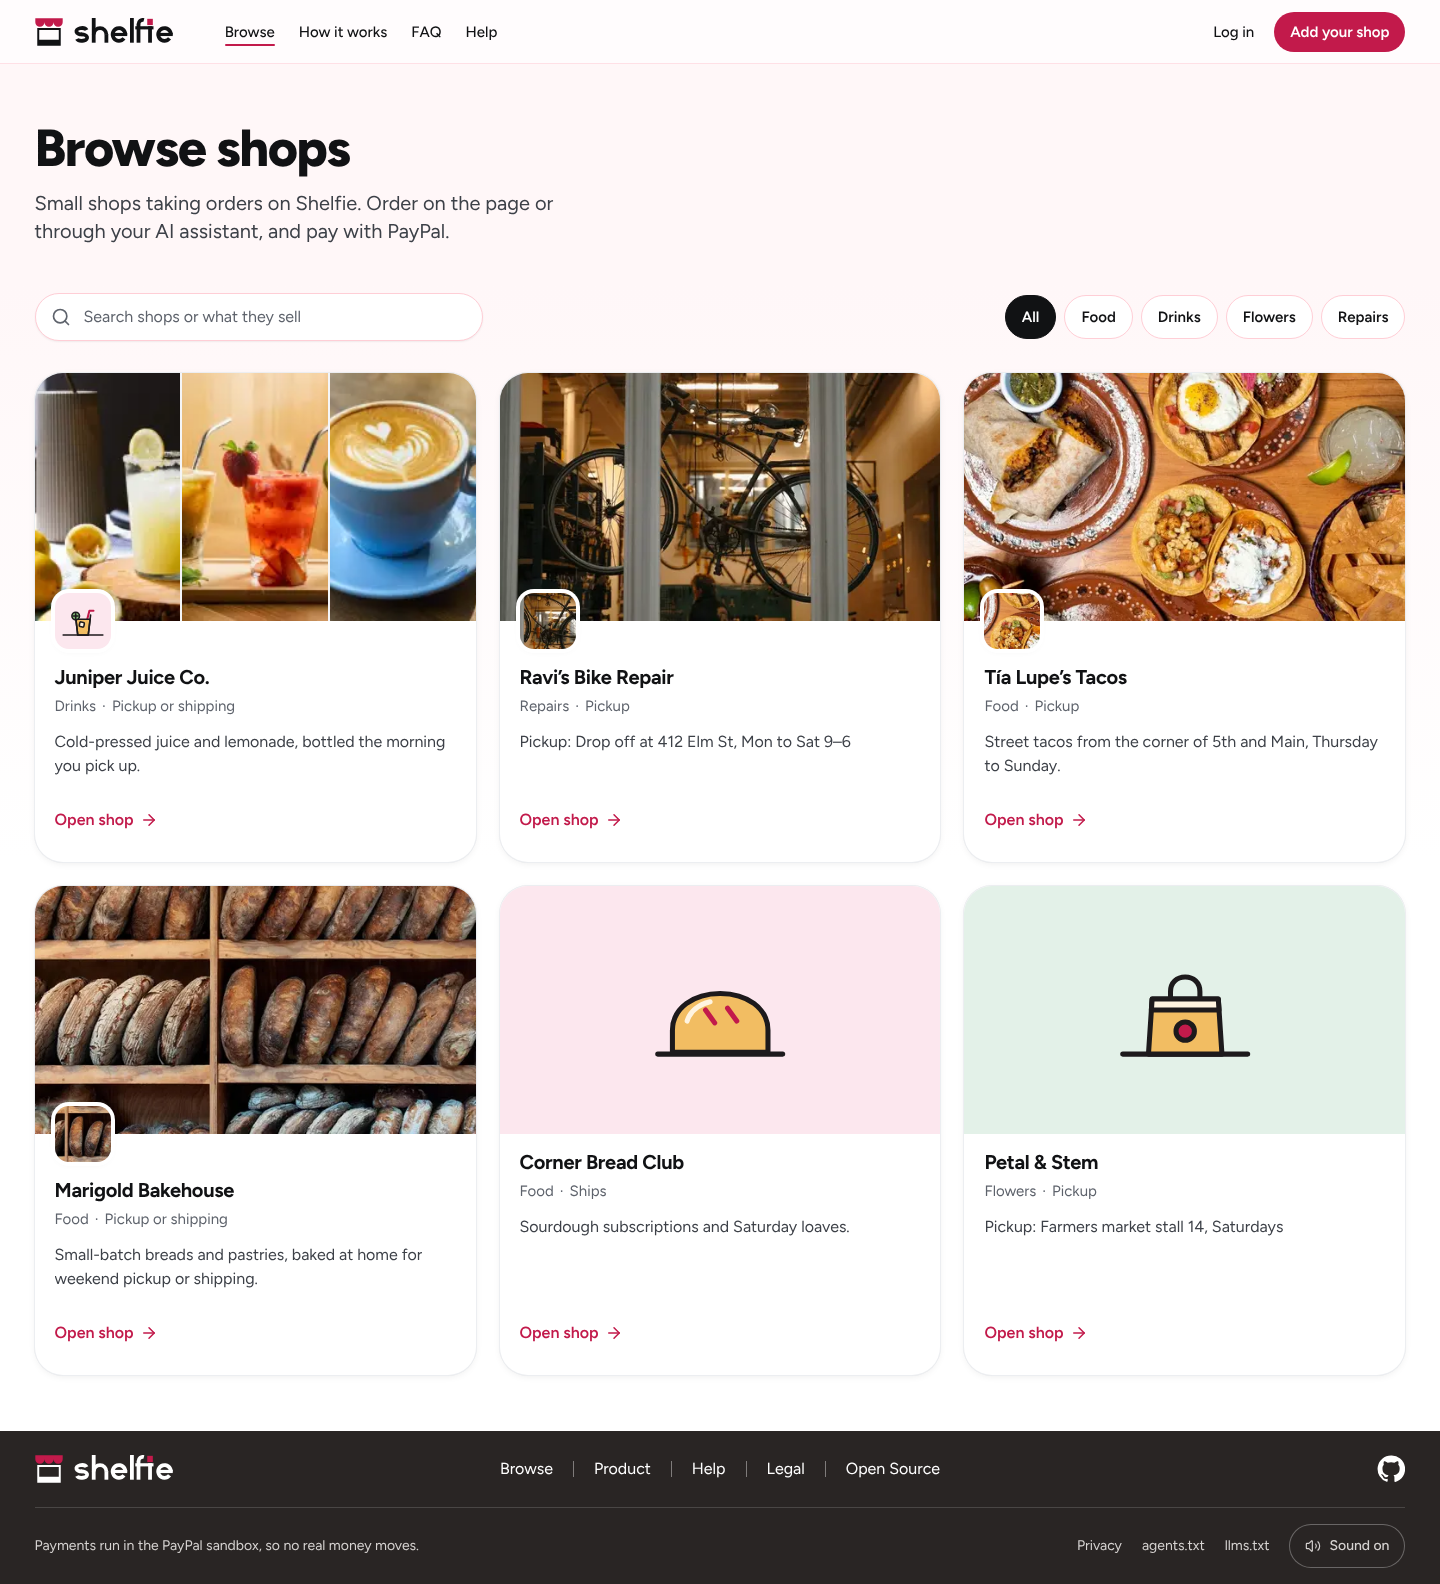
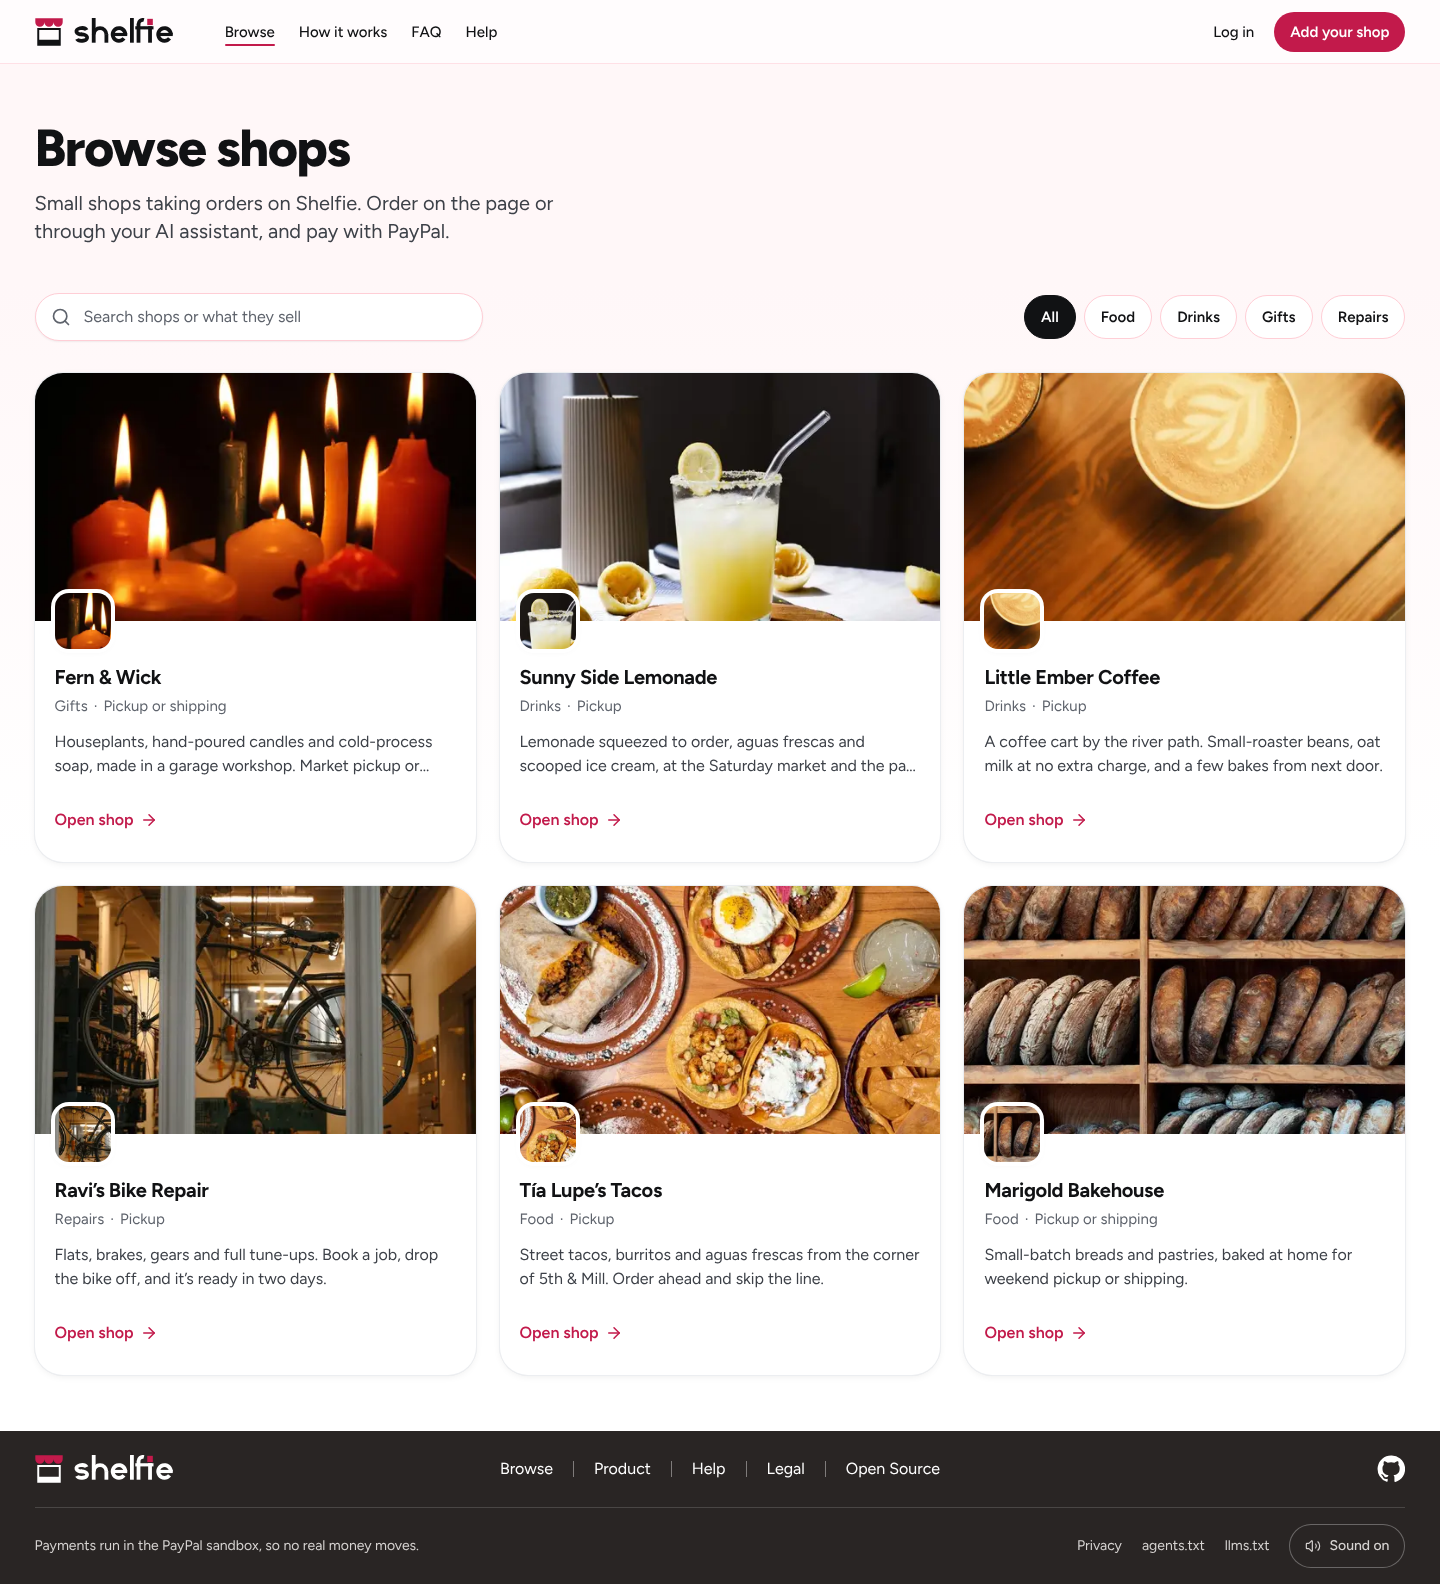
Browse screenshots from the merged seed; CLAUDE.md and PROGRESS for run 11

Changed region(s): [[0.0, 0.1856, 1.0, 0.4949], [0.0, 0.5568, 1.0, 0.8352]]

diff --git a/CLAUDE.md b/CLAUDE.md
@@ -25,7 +25,7 @@ npm run clips               # raw demo clips (1920x1080, 30 fps) into video/clip
 cd video/remotion && npm run voice   # narration from video/project/demo.json -> video/project/audio/, SCRIPT.md, video/shelfie-demo.srt
 cd video/remotion && npm run render  # video/out/shelfie-demo.mp4 + poster.png, loudness-normalised to -14 LUFS (clips in video/project/clips/; render:animatic draws missing ones as placeholders)
 node video/tools/align-cuts.mjs video/project/demo.json <oldClipsDir> video/clips  # re-align the edit's cut points after re-recording clips
-npm run seed                # publish the demo shop (-- --reset recreates it; -- --cancel-unpaid cancels its unpaid rehearsal orders); prints the owner link once; paid to PAYPAL_SANDBOX_SELLER_EMAIL when set, else the platform account
+npm run seed                # publish the six seeded shops (Marigold + `src/lib/demo/shops.ts`, found again by `shops.seed_key`; -- --reset recreates them; -- --cancel-unpaid cancels unpaid rehearsal orders); prints owner links once; paid to PAYPAL_SANDBOX_SELLER_EMAIL when set (else only Marigold, paid to the platform account)
 # photo -> live timing against a running app (see the header of the script for the DATABASE_PATH setup):
 DATABASE_PATH=data/measure/m.db BASE_URL=http://localhost:3109 npx tsx scripts/measure-photo-to-live.ts [runs]
 ```
@@ -40,13 +40,13 @@ DATABASE_PATH=data/measure/m.db BASE_URL=http://localhost:3109 npx tsx scripts/m
 - **MCP agent door**: `POST /s/[slug]/mcp`, stateless `WebStandardStreamableHTTPServerTransport`, fresh `McpServer` per request.
 - **Orders**: pure state machine + compare-and-set writes (`src/lib/orders/`); paid via return URL, webhook (deployed only) or the 15 s poller. The buyer's receipt view is `src/lib/orders/receipt.ts` (page `/o/[ref]`).
 - **Paying each seller** (spec §8a): every order sets `purchase_units[0].payee.email_address` from the shop's PayPal email (`shops.payee_email`, snapshotted on `orders.payee_email`; rules in `src/lib/domain/payee.ts`). Only the demo shop (`marigold-bakehouse`) may have none and is then paid to the platform account. Seller-paid orders are paid by PayPal wallet login (verified with the US sandbox buyer, `e2e/paypal-buyer.ts` `payWithPayPalLogin`); guest card checkout works only on platform-paid orders. PayPal refuses platform tracking on a seller's capture, so their tracking is saved in Shelfie only. A payee email with no PayPal account leaves the capture PENDING (`UNILATERAL`), shown to the seller.
-- **Routes**: every seller screen sits inside the shell: `src/app/shops/[id]/(app)/layout.tsx` calls `requireOwner` and renders `AppShell` (`src/components/app`: sidebar from `lg`, top and tab bars below it, one banner slot, live values in `shell-store.ts`). Inside it, the dashboard is the `(app)/(dashboard)` route group (sections Orders · Menu · Share · Settings via `?tab=`, switched client-side by `SectionLink`, with its loading and `(app)/error.tsx` states inside the shell); the printable counter card is `(app)/card`; order detail is `(app)/orders/[orderId]`. Setup is `shops/[id]/setup`, outside the group, and renders `AppShell` only for its Live step. A non-owner gets a real 404 with the public header, except that a browser that has logged in before and has no session goes to `/login`. A draft's slug never reaches the page. Accounts: `(auth)` holds `/signup`, `/login`, `/recover`; then `/shops` (list), `/shops/new`, `/account`. Public: `/` (`src/components/landing`: Hero with the staged `HeroChain`, HowItWorks, Faq, Closing, built from the owner's reference; `BandHeader` and the charcoal footer serve `/`, `/help`, `/terms`, `/privacy`; rules in `docs/DESIGN.md` "The public site"; a logged-in visitor redirects by `landingPath`), `/help`, `(legal)` `/terms` and `/privacy`. The owner link is `/claim/[token]`, for unattached shops only (the seed and harness, never shown on Live; an account shop's token answers 404); discovery (spec §10a) is JSON-LD + `<link rel="alternate">` on `/s/[slug]` and `/agents.txt`, `/llms.txt` (`src/lib/discovery/`); the buyer console API is `/api/assistant/[slug]`. Rate-limit keys use `src/lib/http/client-ip.ts` (rightmost `X-Forwarded-For`). JSON and webhook bodies are read through `src/lib/http/read-body.ts` (64 KB cap, 413). Setup rate limits (`allowSetup`) are skipped when `SHELFIE_TEST` is set. `SHELFIE_RECORDED_SAMPLES=1` makes sample menus use their recorded reading even with a key (demo recording).
+- **Routes**: every seller screen sits inside the shell: `src/app/shops/[id]/(app)/layout.tsx` calls `requireOwner` and renders `AppShell` (`src/components/app`: sidebar from `lg`, top and tab bars below it, one banner slot, live values in `shell-store.ts`). Inside it, the dashboard is the `(app)/(dashboard)` route group (sections Orders · Menu · Share · Settings via `?tab=`, switched client-side by `SectionLink`, with its loading and `(app)/error.tsx` states inside the shell); the printable counter card is `(app)/card`; order detail is `(app)/orders/[orderId]`. Setup is `shops/[id]/setup`, outside the group, and renders `AppShell` only for its Live step. A non-owner gets a real 404 with the public header, except that a browser that has logged in before and has no session goes to `/login`. A draft's slug never reaches the page. Accounts: `(auth)` holds `/signup`, `/login`, `/recover`; then `/shops` (list), `/shops/new`, `/account`. Public: `/browse` ("Browse shops": every live shop that takes orders via `listBrowseShops` in `src/lib/db/repos/browse.ts`, search and category chips from `shops.category`, `src/components/browse`), `/` (`src/components/landing`: Hero with the staged `HeroChain`, HowItWorks, Faq, Closing, built from the owner's reference; `BandHeader` and the charcoal footer serve `/`, `/help`, `/terms`, `/privacy`; rules in `docs/DESIGN.md` "The public site"; a logged-in visitor redirects by `landingPath`), `/help`, `(legal)` `/terms` and `/privacy`. The owner link is `/claim/[token]`, for unattached shops only (the seed and harness, never shown on Live; an account shop's token answers 404); discovery (spec §10a) is JSON-LD + `<link rel="alternate">` on `/s/[slug]` and `/agents.txt`, `/llms.txt` (`src/lib/discovery/`); the buyer console API is `/api/assistant/[slug]`. Rate-limit keys use `src/lib/http/client-ip.ts` (rightmost `X-Forwarded-For`). JSON and webhook bodies are read through `src/lib/http/read-body.ts` (64 KB cap, 413). Setup rate limits (`allowSetup`) are skipped when `SHELFIE_TEST` is set. `SHELFIE_RECORDED_SAMPLES=1` makes sample menus use their recorded reading even with a key (demo recording).
 - **Photos**: `items.photo_url` / `shops.cover_url` hold a site-relative URL or null. Bundled demo photos are `public/demo/<shop-slug>/` (map in `src/lib/demo/photos.ts`, credits in `docs/ASSETS.md`; only `npm run seed` applies them). Sellers upload through `POST`/`DELETE /api/shops/[id]/items/[itemId]/photo` and `/api/shops/[id]/cover` (`src/lib/catalog/photos.ts`: the menu upload's decoder, WebP, `${UPLOADS_DIR}/items/`), served by `GET /i/[file]`; browser calls in `src/lib/client/item-photos.ts`. The public shop page's menu tiles, cover and photo avatar add a `srcset` of resized WebP copies from Next's image optimizer (`src/lib/images/responsive.ts`; the `src` stays the original, which tests and agents read); `images.localPatterns` in `next.config.ts` allows only `/samples/**`, `/demo/**` and `/i/**` with no query, so any other optimized path is a 400 (`tests/images/local-patterns.test.ts`). The menu photo routes take `?size=avatar` (a 160 px square). Lighthouse on `/s/marigold-bakehouse` (mobile, production build) is 91 (`docs/judge/evidence/lighthouse-shop-mobile.json`). Agents get absolute URLs (`image_url` in `list_products`, `image` in the JSON-LD). "Snap your counter": `POST /api/shops/[id]/counter` sends a display-case photo to Claude (`src/lib/ai/counter.ts`) and returns one 4:3 WebP crop per item found (`src/lib/catalog/counter.ts`), stored nowhere; the seller keeps one by uploading it through the item-photo route.
 - **Example photos (Part A3)**: an item's picture is, in order, the seller's own photo (`items.photo_url`, which also holds a kept "Snap your counter" crop), else an *example* photo from the bundled library (`public/library/<id>.webp`, catalogue `src/lib/library/catalog.ts`, Pexels-licensed, credits in `docs/ASSETS.md`), else the category drawing. `src/lib/library/picture.ts` (`itemPictures`/`pictureOf`) is the only place that decides it. Claude picks `example_photo` (a library id) while reading the menu; unpicked items match by name and category (`src/lib/library/match.ts`). With `PEXELS_API_KEY` set, unmatched items are searched live after a reading (`src/lib/library/pexels.ts`, cached in `library_cache`, files under `${UPLOADS_DIR}/library`, served by `GET /i/library/[file]`). Buyers see a small "Example photo" note (`ExampleNote`), sellers "Example photo, replace with yours"; agents (`image_url`) and the JSON-LD get only the seller's own photos, never an example.
 - **Design and brand**: photo-first "Storefront" direction (white page, Figtree with `text-rendering: geometricPrecision`, one pomegranate accent `#c21a4b`); tokens in `src/app/globals.css`, system in `docs/DESIGN.md`. Primitives are shadcn-based (`components.json`, new-york) in lowercase files under `src/components/ui` (`@/components/ui/button`); `cn()` is `@/lib/utils` (clsx + tailwind-merge, `cx` is an alias); shadcn's colour names map onto our closed palette in `@theme`. Errors use `error` (vermilion, never the accent); helpful notes (AI brief, allergy) use `note`. Motion: `motion` under `MotionProvider` (root layout: `LazyMotion` strict + `MotionConfig reducedMotion="user"`, so use `m.*`, never `motion.*`); primitives `Reveal`, `Stagger`/`StaggerItem`, `Pressable`, `CountUp`, `StatusSwap` in `src/components/motion`; only transform and opacity animate. An element that starts hidden for an entrance carries `data-entrance` (or a motion `data-slot`) so the motion-off fallback shows it (`tests/ui/motion-off.test.ts`); `Reveal` reads reduced motion through `usePrefersReducedMotion` (reactive; motion's own hook reads it once). The logo ("Awning": a pomegranate scalloped awning over an ink instant print, plus a drawn wordmark; rules in `docs/DESIGN.md` "Logo") is `Logo`/`LogoMark` in `src/components/brand/Logo.tsx` (paths from `logo-paths.ts`, generated with the files in `public/brand/` and `docs/judge/logo/final/` by `node docs/judge/logo/tools-B/build.mjs final`); never set "shelfie" in Figtree as the logo. The favicon `src/app/icon.svg` turns its ink white in dark mode; the Open Graph image is `src/app/opengraph-image.png` (`node scripts/make-og-image.mjs`). **PWA**: `src/app/manifest.ts` + `src/lib/brand/pwa.ts`, icons by `npx tsx scripts/make-icons.ts public/brand/mark.svg '#ffffff'` (white tile, maskable art inside the 80% safe circle), no service worker on purpose; `E2E_PORT=3150 npx playwright test e2e/pwa.spec.ts` checks installability in full Chromium.
 - **Services**: `src/lib/services.ts` is the composition root (db, PayPal client or fake, toolkit, Anthropic).
 - **Seller auth** (`src/lib/auth`): accounts with email and password (scrypt `password.ts`, 15 to 128 characters `password-policy.ts`), 30-day server-side sessions (`session.ts`, the cookie is a random token and the DB holds its SHA-256) and a one-time recovery key (`recovery.ts`, no email provider). `owner.ts` decides ownership: an account's shop answers only to that account's session; an unattached shop (seed, harness) to its per-shop httpOnly owner cookie (hash stored). Guest shops need `SHELFIE_ALLOW_GUEST_SHOPS=1` (`guest.ts`, harness only, ignored when `RENDER` is set, never in production). Deleting a shop or account (`src/lib/catalog/delete-shop.ts`, `/account`, foot of Settings) needs the password, is refused while orders are open, and retires the slug (`retired_slugs`); PayPal's catalog has no delete, so its products stay in the sandbox.
-- **Cart**: a tile opens the item sheet (`shop/ItemSheet.tsx`, `?item=<id>`); `+` adds a single-option item directly. `shop/use-cart-state.ts` stores only `{itemId, optionId, qty}` in `localStorage` (`shelfie:cart:<slug>`, 24 h); client totals are display-only. `POST /api/checkout/[slug]` (same-origin, rate-limited before the body, strict zod refuses any price, totals from `priceOrder`) calls `createOrderForShop` as `STOREFRONT_AGENT_NAME` with a 20-minute approval window; an agent claiming that name is recorded as unnamed. From 1024 px the cart shares the assistant's dock, one panel at a time. The home page's chat (`landing/HomeChat.tsx` frame, `landing/chat/HomeChatPanel.tsx` inside, bot drawing `landing/BotMark.tsx`) is the same buyer console (`useBuyerConsole`, its own look: cover-photo header, item cards from the turn's `list_products` results via `chat/order.ts`, the placed order pinned above the composer) taking orders for the example shop, rendered by `src/app/page.tsx` only while `marigold-bakehouse` is live and takes orders: a tall panel (440 px, viewport less 96 px) in the launcher's corner from 1024 px that opens itself after 4 s once per session (sessionStorage), a 90% bottom sheet with a greeting bubble below; `?chat=0`/`?chat=1` force its auto-open off/on, and it starts off under `SHELFIE_TEST`.
+- **Cart**: a tile opens the item sheet (`shop/ItemSheet.tsx`, `?item=<id>`); `+` adds a single-option item directly. `shop/use-cart-state.ts` stores only `{itemId, optionId, qty}` in `localStorage` (`shelfie:cart:<slug>`, 24 h); client totals are display-only. `POST /api/checkout/[slug]` (same-origin, rate-limited before the body, strict zod refuses any price, totals from `priceOrder`) calls `createOrderForShop` as `STOREFRONT_AGENT_NAME` with a 20-minute approval window; an agent claiming that name is recorded as unnamed. From 1024 px the cart shares the assistant's dock, one panel at a time. The home page's chat (`landing/HomeChat.tsx` frame, `landing/chat/HomeChatPanel.tsx` inside, bot drawing `landing/BotMark.tsx`) is the same buyer console (`useBuyerConsole`, its own look: cover-photo header, item cards from the turn's `list_products` results via `chat/order.ts`, the placed order pinned above the composer) taking orders for Marigold Bakehouse, rendered by `src/app/page.tsx` only while `marigold-bakehouse` is live and takes orders: a tall panel (440 px, viewport less 96 px) in the launcher's corner from 1024 px that opens itself after 4 s once per session (sessionStorage), a 90% bottom sheet with a greeting bubble below; `?chat=0`/`?chat=1` force its auto-open off/on, and it starts off under `SHELFIE_TEST`.
 - **Sound** (`src/lib/feedback`): oscillators only, no audio files, no `AudioContext` before the first gesture. `Tactile` plays `tick` on every press; `feedback('add')` and the dashboard's `order` chime are the others. One per-device switch for sound and vibration (`shelfie:feedback:v1`): `SoundToggle` in the footer, `Sound and vibration` in Settings.
 - **Tests** live in `tests/` (unit), `tests/sandbox` and `tests/ai-live` (network), `e2e/` (Playwright).
 

diff --git a/docs/PROGRESS.md b/docs/PROGRESS.md
@@ -465,3 +465,4 @@ Sessions 1–3 ended within minutes (each ended its turn after launching jobs, w
   - Note: `project/clips/` held 9 Nov takes that the render keeps over new ones. They were moved to /tmp and the fresh clips hard-linked in.
 - **Needs from human** (unchanged): make the repo public, the optional Render deploy, upload `video/out/shelfie-demo.mp4` to YouTube, fill in the `docs/SUBMISSION.md` links, submit on Devpost.
 - Run 9: the hero gets the owner's `Add your shop →` pill (to /signup) and `See an example shop`, stacked full width on phones; screenshots in docs/preview/hero-cta-*.png; unit, typecheck, lint, build and landing/other-pages e2e pass.
+- Run 11: mockup B is the home chat (cover-photo header, item cards from `list_products`, pinned order above the composer, 440 px × viewport−96 panel / 90% phone sheet; `?chatui` and A/C removed); `npm run seed` publishes six live shops (Marigold, Tía Lupe's, Ravi's, Little Ember Coffee, Sunny Side Lemonade, Fern & Wick) and a new /browse page lists every orderable shop (search, chips, Browse in header/footer/hero); public pages no longer say demo/example shop; real sandbox order on Little Ember Coffee paid (docs/judge/evidence/new-shop-order.md); unit, typecheck, lint, build and 213 e2e pass.
